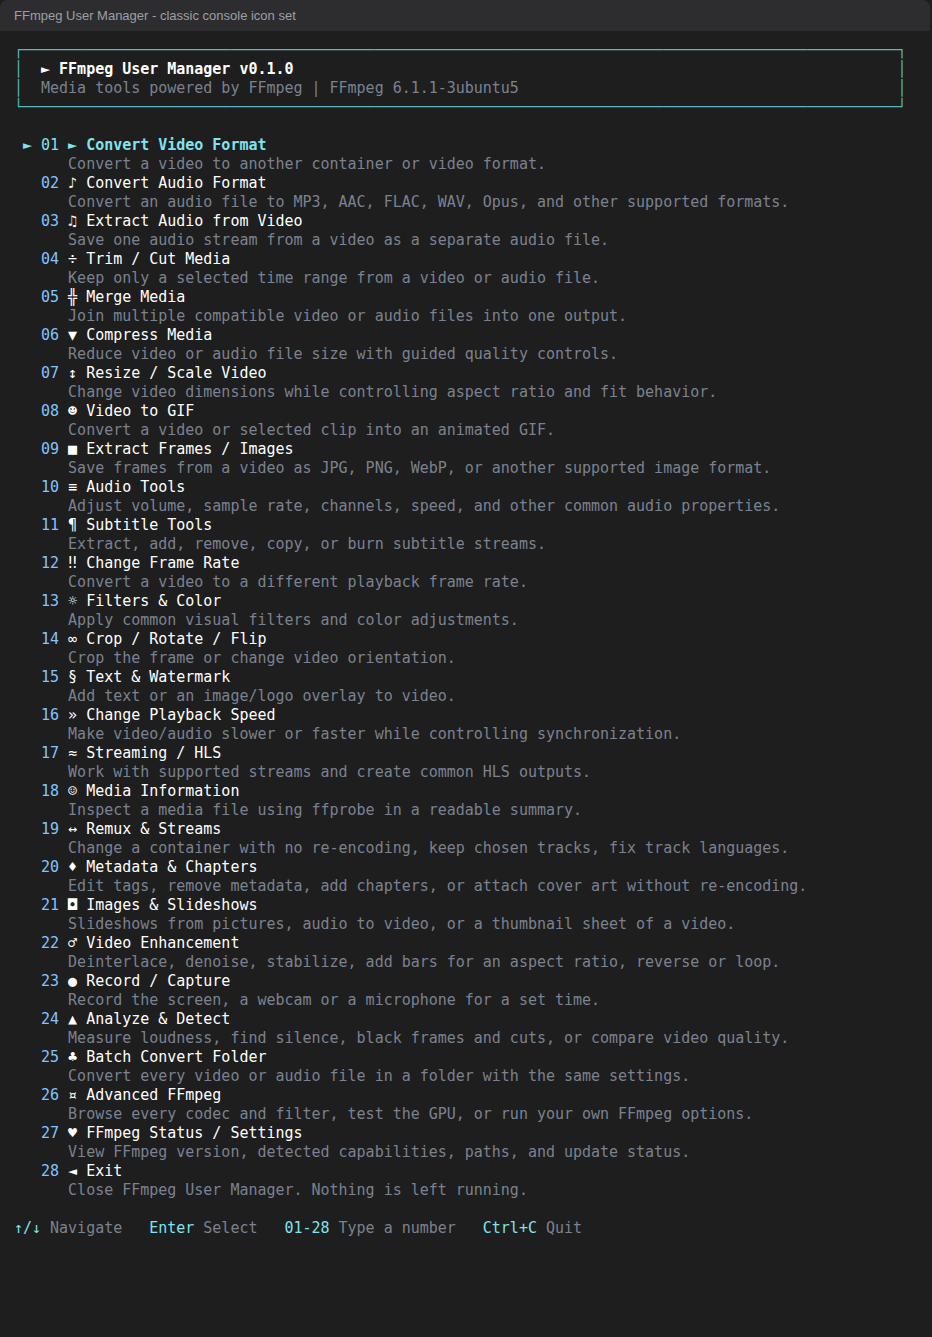
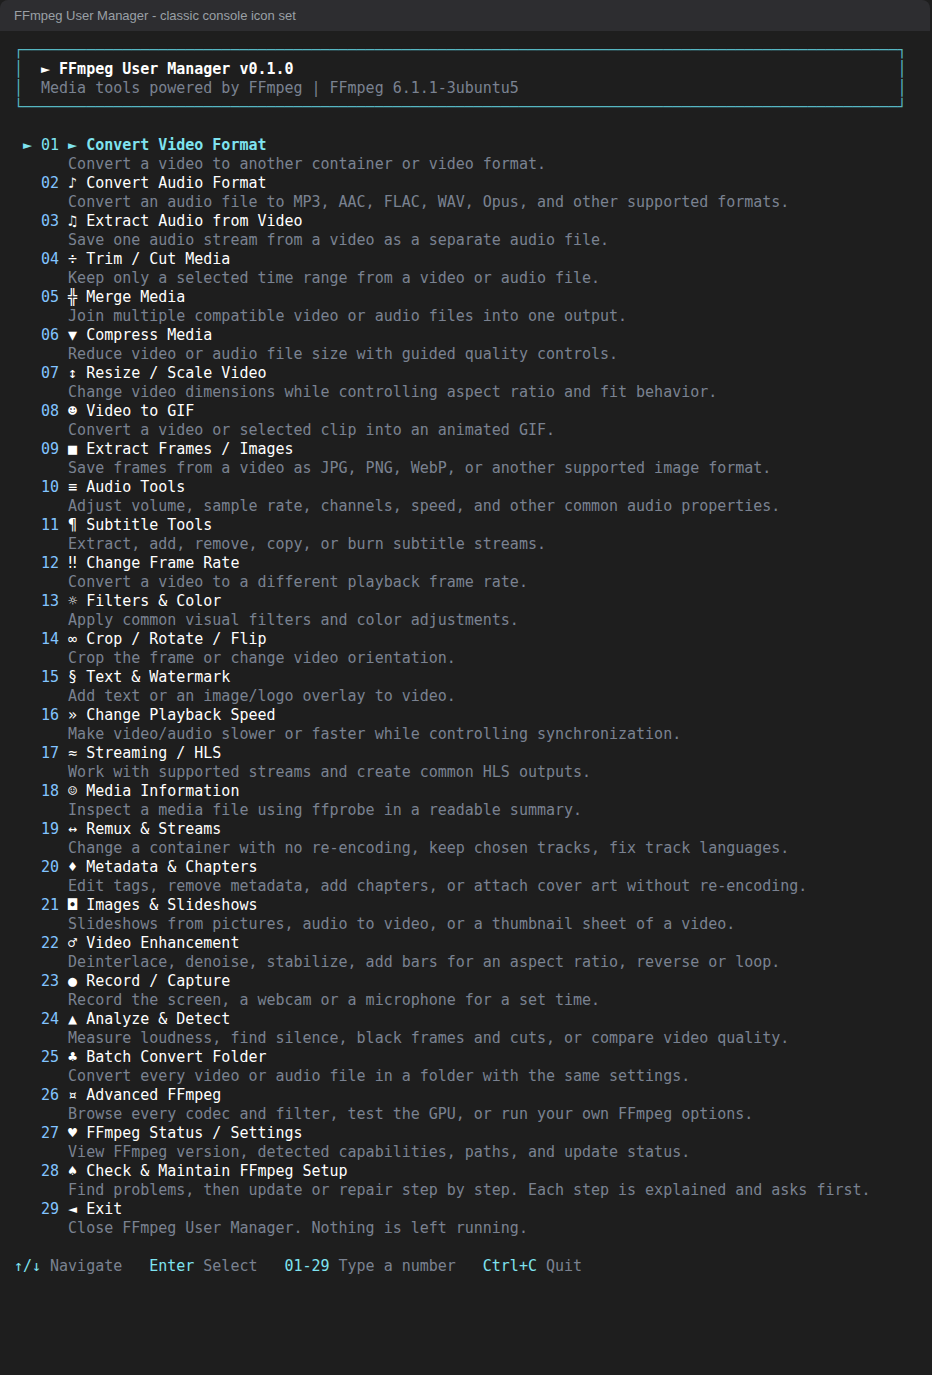
Add Check & Maintain FFmpeg Setup tool and document download exceptions
Claude-Session: https://claude.ai/code/session_01KQsVQEdyVYyBw87PZLADV1

Changed region(s): [[0.0311, 0.0307, 0.8712, 0.92], [0.8401, 0.8586, 0.8712, 0.8893]]

diff --git a/docs/Testing.md b/docs/Testing.md
@@ -33,7 +33,7 @@ be provoked in the current environment (with the reason printed). FFmpeg + ffpro
 |---|---|---|
 | Unit | `Core.Tests.ps1` | validation, paths, argument quoting round-trips with awkward file names, injection safety, filter escaping proven against the real filter parser, encoders, atempo chains, progress parsing, capability parsing/discovery, ffprobe model |
 | Unit | `Manager.Tests.ps1` | detection (installed / missing / no ffprobe / stale PATH), update states with mocked winget text, install and update flows through the UI, failure and unmanaged cases |
-| Unit | `Tui.Tests.ps1` | menu (two-digit numbers `01`-`99`, `100`+, prefix waiting, Enter, arrows, Esc, Ctrl+C, scrolling, disabled items, no letter keys), main-menu definition (28 numbered options, Exit last), narrow/normal/wide layout, the three icon tiers (emoji, console-safe symbol, ASCII; symbol glyphs are checked against WGL4), theme centralization, line editor, wizard (steps, Back, conditions, Goto, multi-choice, file list, summary menu), dialogs |
+| Unit | `Tui.Tests.ps1` | menu (two-digit numbers `01`-`99`, `100`+, prefix waiting, Enter, arrows, Esc, Ctrl+C, scrolling, disabled items, no letter keys), main-menu definition (29 numbered options, Exit last), narrow/normal/wide layout, the three icon tiers (emoji, console-safe symbol, ASCII; symbol glyphs are checked against WGL4), theme centralization, line editor, wizard (steps, Back, conditions, Goto, multi-choice, file list, summary menu), dialogs |
 | Unit | `Static.Tests.ps1` | version (`VERSION` is SemVer, README badge/CHANGELOG/tags consistent), README/docs link and image check, README commands vs real launcher switches, release-package contents, secret and machine-path scan, `.gitignore`, parse check, no `Invoke-Expression`, no network/telemetry code, no shell launching, no recursive deletion, PS-5.1 syntax/API scan, ASCII-only sources, closure rule, module/wiring/documentation presence |
 | Unit | `NewTools.Tests.ps1` | icon-tier decision table (Windows Terminal, conhost, redirected, Linux, overrides), custom-command argument parsing and refusals, DirectShow device parsing, analysis log parsers, chapter parsing and ffmetadata escaping, stream-output destinations, slideshow/sequence helpers |
 | Unit | `UiRules.Tests.ps1` | static UI rules by syntax tree: no letter keys or hand-written keys, every `New-Choice` has a description, every Yes/No question describes both answers, every question has help and typed questions an example, no local variable that collides with a parameter |
@@ -62,7 +62,7 @@ the position of an option. `New-FileListRules` fills a "Files" question (type pa
 
 ## Manual TUI checklist (real terminal)
 
-1. Windows Terminal + PowerShell 7 and Windows PowerShell 5.1: start, arrow keys, typing numbers (`01`, `08`, `28`), Esc/Back, Ctrl+C.
+1. Windows Terminal + PowerShell 7 and Windows PowerShell 5.1: start, arrow keys, typing numbers (`01`, `08`, `29`), Esc/Back, Ctrl+C.
 2. Legacy console host (conhost, double-click the `.bat`): every option must show a **symbol icon** (never a blank, a box or an ASCII tag); colors fall back; still readable. Also check Windows Terminal (emoji icons), the Consolas, Lucida Console and raster fonts, and `FFTUI_ICONS=ascii`. **Not yet verified on Windows.**
 3. Resize the window narrow (< 60 columns) and short (< 20 rows) while on the menu and in a wizard.
 4. Paste a quoted path with spaces / Unicode; press `Tab` for the native picker.

diff --git a/AGENTS.md b/AGENTS.md
@@ -21,7 +21,12 @@ Read this file **before** starting any task.
 * No `Invoke-Expression`, no shell strings built from user input: FFmpeg arguments are token arrays (see `FFmpegCommandBuilder.psm1`, `ProcessRunner.psm1`).
 * Never overwrite or delete user files silently; output collisions always ask. Source media is never modified.
 * Capabilities (encoders, filters, ...) come from the installed FFmpeg, never from a hardcoded universe.
-* No telemetry, accounts, downloads of executables from URLs, GUI, web server or database.
+* No telemetry, accounts, downloads of executables from URLs, GUI, web server or database. **Allowed exceptions (owner-approved), each only after the user is told what will be downloaded and says yes, and each only through the vetted package manager route:**
+  1. Installing FFmpeg/ffprobe with winget (package `Gyan.FFmpeg`) when they are missing.
+  2. Updating FFmpeg with winget when an update is available.
+  3. The emoji font: Segoe UI Emoji is part of Windows and cannot be redistributed, so the app only detects it and explains. A replacement font may be downloaded only if the owner names a source with an open license (for example OFL) and a pinned SHA-256 that the app verifies before installing; none is configured today.
+  4. The **Check & Maintain FFmpeg Setup** tool (main menu) may trigger exceptions 1-2; every step is explained with an example and asks first.
+  Anything else still needs the owner's decision. Never download or run a script/executable from a URL.
 * Colors live only in `Theme.psm1`/`Renderer.psm1`; do not scatter `-ForegroundColor` or ANSI codes.
 * **Numbered options only.** Every selectable option on every screen (menus, submenus, wizard questions, dialogs) is shown as `Number  Icon  Name` with a two-digit, zero-padded number (`01`, `02` ... `09`, `10`, `11` ..., continuing to `100` and beyond, never truncated). There are no letter keys, no `[X]` shortcuts and no exceptions (Exit and Back are numbered like everything else). `Show-Menu`, `Show-Notice` and `Show-Confirm` assign the numbers; never hand-write a key.
 * **Every option explains itself.** Every option has a short description under it (what it does, when to use it, what to expect); every question has help text, and typed questions have an example. Static tests enforce this (`tests/Unit/UiRules.Tests.ps1`).

diff --git a/docs/Workflows.md b/docs/Workflows.md
@@ -57,7 +57,8 @@ Common questions (used by most workflows):
 | 25 | Batch Convert Folder | [25](#25-batch-convert-folder) |
 | 26 | Advanced FFmpeg | [26](#26-advanced-ffmpeg) |
 | 27 | FFmpeg Status / Settings | [27](#27-ffmpeg-status--settings) |
-| 28 | Exit | closes the application |
+| 28 | Check & Maintain FFmpeg Setup | [28](#28-check--maintain-ffmpeg-setup) |
+| 29 | Exit | closes the application |
 
 ## FFmpeg capability coverage
 
@@ -211,3 +212,9 @@ if a converted file exists: *Skip* (default) or *Overwrite*. Uses exactly the sa
 ## 27 FFmpeg Status / Settings
 Paths, version, PowerShell version, terminal capabilities and icon set, hardware accelerators, capability-cache status, package-manager and update status. Actions (numbered): *Re-scan capabilities*,
 *Check for updates*, *Re-detect FFmpeg paths*, *Icon style (emoji or symbols)*, *Back*.
+
+## 28 Check & Maintain FFmpeg Setup
+A guided health check in five steps. Before each step you are told what it does, shown an example and told whether the internet is used; nothing is downloaded or installed unless you say yes to that step.
+1. **FFmpeg and ffprobe** - found and really started; if missing or broken you may install them with winget. 2. **FFmpeg updates** - asks winget; updating asks again.
+3. **Emoji font** - checks that Segoe UI Emoji (part of Windows 10/11) exists; if it does not, the tool explains and cannot install it (Microsoft does not offer it separately). 4. **Icon style** - emoji or symbols, with a preview.
+5. **Capability re-scan**. A summary lists what was checked, repaired or skipped.

diff --git a/CHANGELOG.md b/CHANGELOG.md
@@ -35,10 +35,12 @@ everything below is unreleased work that will ship as **0.1.0** once the owner a
 - Single version source (`VERSION`), version shown in the header, Status screen and `Start-FFmpegTUI.ps1 -Version`.
 - Documentation (`README.md`, `docs/`), `AGENTS.md` working rules, and an automated test suite (`tests/Run-Tests.ps1`).
 
+- **Check & Maintain FFmpeg Setup** (main menu 28): guided, step-by-step health check (FFmpeg install/repair, updates, emoji font, icon style, capability re-scan) that explains each step and asks before any download.
+
 ### Changed
 - On first start in a Windows console that is not recognized as emoji-capable, the app offers colorful emoji icons (with a preview). The answer is remembered per Windows account (`%APPDATA%\FFmpeg-User-Manager\settings.json`), so it is asked only once; FFmpeg Status / Settings has an *Icon style* option to change it. `FFTUI_ICONS` still overrides.
 - Wizard summary, dialogs, FFmpeg status and media-information screens use numbered options instead of letter keys; the job-cancel key is `Esc`.
-- Main menu grew from 19 to 28 numbered options (Exit is the last number).
+- Main menu grew from 19 to 29 numbered options (Exit is the last number).
 - The `.bat` launcher switches the console to UTF-8 (code page 65001) while the app runs and restores it afterwards.
 - Screenshots in `docs/images/` were recaptured for the new layout.
 

diff --git a/docs/Architecture.md b/docs/Architecture.md
@@ -25,6 +25,7 @@ functions can call each other. Module-private state uses `$script:` variables.
 | Module | Responsibility |
 |---|---|
 | `App.psm1` | Startup sequence, FFmpeg missing/install/update screens, capability scan, main menu, status screen, top-level error containment, terminal cleanup. |
+| `Maintenance.psm1` | The guided *Check & Maintain FFmpeg Setup* tool; reuses the install/update/icon flows and asks before every step. |
 | `Environment.psm1` | Runtime info (5.1 vs 7), interactive/ANSI/Unicode detection, terminal size, `config/defaults.json` loading. `Test-IsWindows` guards `$IsWindows` (absent in 5.1). |
 | `Paths.psm1` | Path cleaning (`"..."`, `'...'`, `& '...'`), resolution, input-file checks (missing, folder, empty, locked, denied), file-name validation (reserved names, illegal chars), size/duration formatting, open-folder, optional native picker. |
 | `Validation.psm1` | Parsers returning `{Ok, Value, Error}`: timestamps, integers, decimals, bitrates, frame rates, colors. Never throw for user mistakes. |

diff --git a/README.md b/README.md
@@ -101,6 +101,7 @@ This project gives beginners a safe, visual way to use the common 95% of FFmpeg,
 | **Record / capture** | Screen, webcam and microphone recording for a set time (Windows) |
 | **Analyze & detect** | Volume, loudness, silence, black frames, scene changes, black bars, PSNR/SSIM quality comparison |
 | **Batch convert** | One conversion applied to every video or audio file in a folder |
+| **Check & maintain** | Guided health check of the FFmpeg setup: install/repair FFmpeg, check for updates, emoji font, icon style, capability re-scan - each step explained and asked first |
 | **Advanced FFmpeg** | Capability browser (all encoders, filters, formats...), custom command, GPU check, build details |
 | **FFmpeg status** | Paths, version, capabilities, hardware accelerators, update check |
 | **Streaming / HLS** | (also) send a file out to an RTMP / SRT / UDP address |
